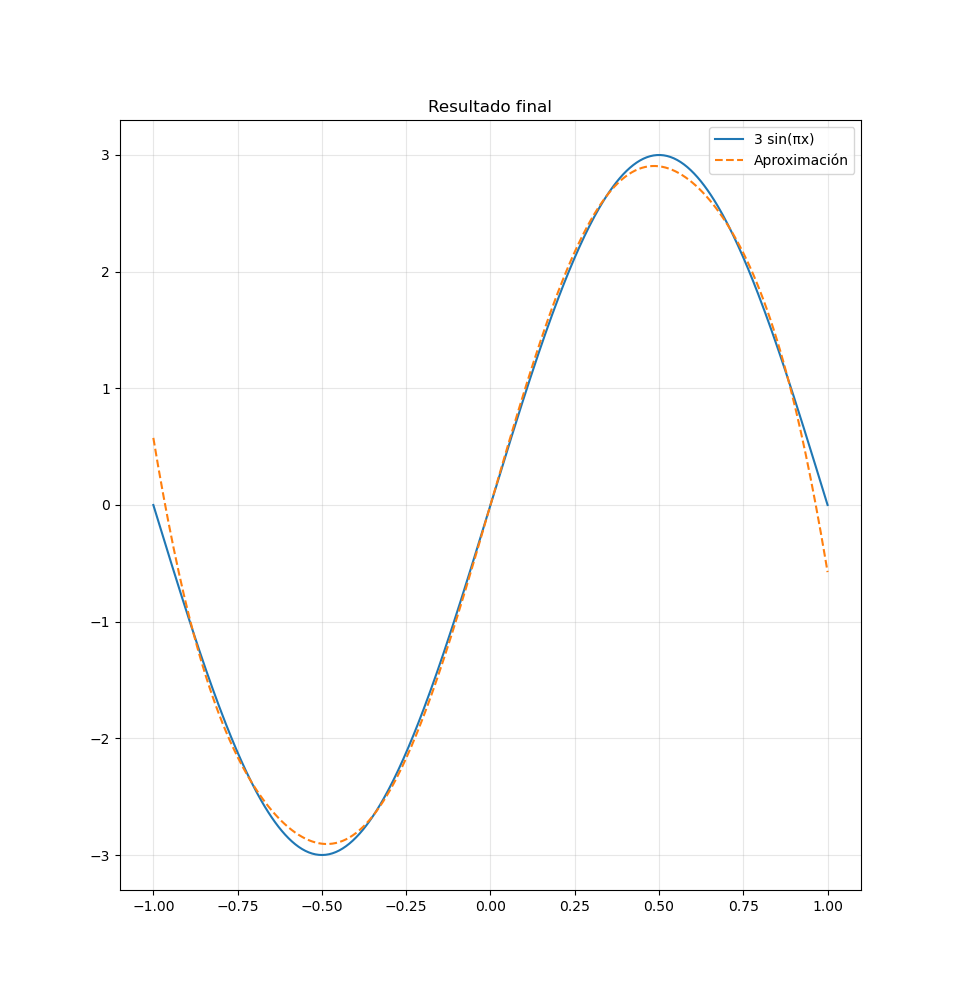
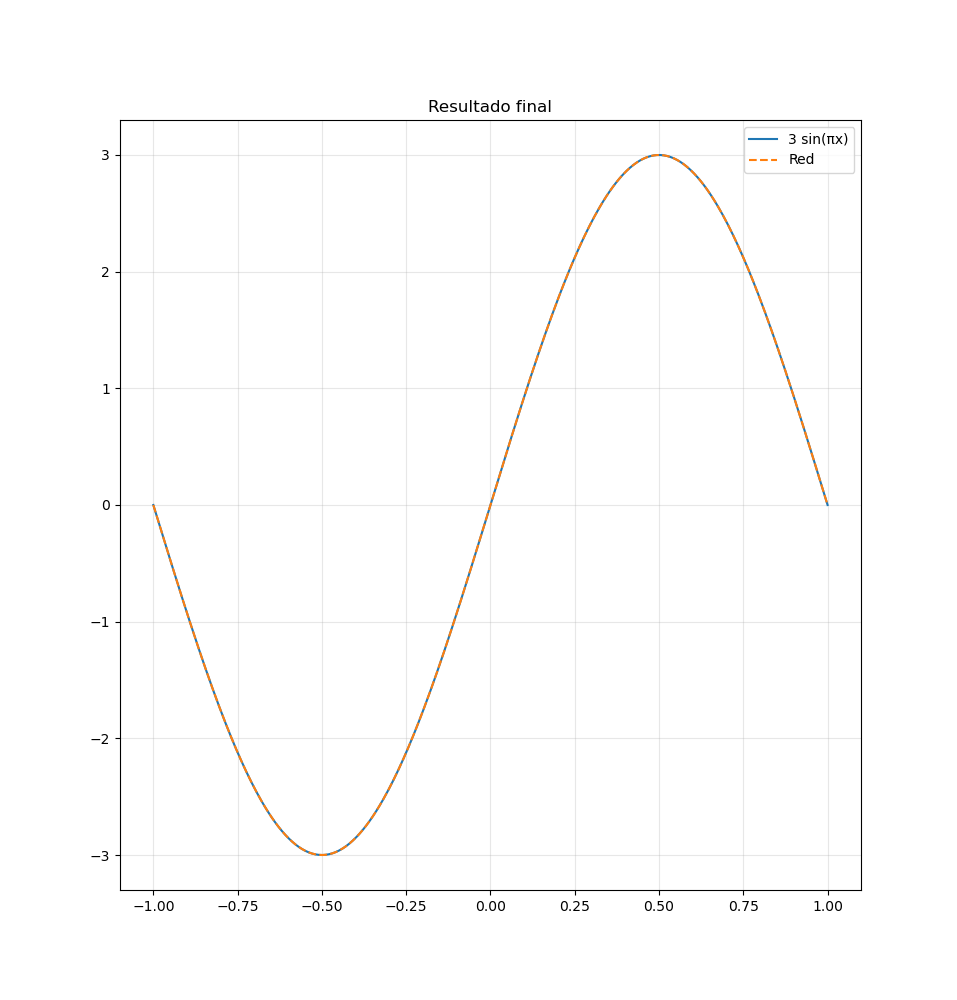
Img y codigo de f(x)=3sin(pi*x)

diff --git a/Tarea4/Tarea4_2_1.py b/Tarea4/Tarea4_2_1.py
@@ -1,0 +1,140 @@
+"""
+Este script entrena una red neuronal para reproducir funciones en el intervalo [-1,1].
+
+Funciones a utilizar:
+a) f(x) = 3sin(pi*x)
+b) f(x) = 1+2x+4x^3
+
+"""
+
+""" PROGRAMA PRINCIPAL """
+import tensorflow as tf
+from tensorflow import keras
+from tensorflow.keras.models import Sequential
+from tensorflow.keras.layers import Dense, Dropout
+from tensorflow.keras.optimizers import SGD, RMSprop, Adam
+import matplotlib.pyplot as plt
+import numpy as np
+import math
+import wandb
+from wandb.integration.keras import WandbCallback
+
+loss_tracker = keras.metrics.Mean(name='loss')
+
+class Funsol(keras.Model):
+    @property
+    def metrics(self):
+        return [loss_tracker]
+
+    def train_step(self, data):
+        batch_size = 10
+        x = tf.random.uniform((batch_size, 1), minval=-1, maxval=1)
+        eq = 3.0*tf.math.sin(tf.constant(np.pi,x.dtype)*x)
+
+        with tf.GradientTape() as tape:
+            ypred = self(x, training=True)
+            loss = tf.reduce_mean(keras.losses.mean_squared_error(eq, ypred))
+
+        grads = tape.gradient(loss, self.trainable_variables)
+        self.optimizer.apply_gradients(zip(grads, self.trainable_variables))
+        loss_tracker.update_state(loss)
+
+        return {'loss': loss_tracker.result()}
+
+class SinTransform(keras.layers.Layer):
+    def __init__(self, num_outputs):
+        super().__init__()
+        self.num_outputs = num_outputs
+        # ❗ CORREGIDO: frecuencias π·k (no π + k)
+        self.freq = np.pi * tf.range(1., num_outputs + 1)
+
+    def build(self, input_shape):
+        self.kernel = self.add_weight(
+            "kernel", shape=[self.num_outputs],
+            initializer="glorot_uniform", trainable=True
+        )
+
+    def call(self, inputs):
+        x = tf.convert_to_tensor(inputs, dtype=self.dtype)
+        x = tf.reshape(x, (-1, 1))                  # (N,1)
+        arg = x * self.freq[tf.newaxis, :]          # (N,K)
+        modes = tf.sin(arg)                         # (N,K)
+        y = modes @ self.kernel[:, tf.newaxis]      # (N,1)
+        return y
+
+class PlotCallback(keras.callbacks.Callback):
+    def __init__(self, x_plot):
+        super().__init__()
+        self.x_plot = x_plot.astype("float32").reshape(-1, 1)
+
+    def on_epoch_end(self, epoch, logs=None):
+        y_pred = self.model.predict(self.x_plot, verbose=0).squeeze()
+        x_np = self.x_plot.squeeze()
+        y_true = 3*np.sin(np.pi*x_np)
+
+        plt.figure()
+        plt.plot(x_np, y_true, label="3 sin(πx)")
+        plt.plot(x_np, y_pred, "--", label="Red")
+        plt.title(f"Epoch {epoch+1}")
+        plt.xlabel("x"); plt.ylabel("y"); plt.legend(); plt.grid(True, alpha=0.3)
+
+        wandb.log({
+            "epoch": epoch + 1,
+            "curve": wandb.Image(plt)   # sube la figura
+        })
+        plt.close()
+
+
+wandb.init(
+    project="aprox-funciones",     # <-- cambia al nombre de tu proyecto
+    name="3*sin-pi-x",
+    config={
+        "model": "Funsol+SinTransform",
+        "num_outputs": 5,
+        "optimizer": "SGD",
+        "lr": 0.2,
+        "epochs": 200,
+        "internal_batch": 10,      # el que usas dentro de train_step
+        "intervalo": "[-1,1]"
+    }
+)
+
+config = wandb.config 
+
+inputs = keras.Input(shape=(1,))
+outputs = SinTransform(5)(inputs)
+model = Funsol(inputs=inputs, outputs=outputs)
+model.compile(optimizer=keras.optimizers.SGD(learning_rate=0.2))
+
+model.summary()
+
+x_dummy = tf.linspace(-1, 1, 100)  # no se usa en tu train_step, pero sirve para contar steps
+callbacks = [
+    WandbCallback(log_weights=True, save_model=True),  # registra métricas y pesos
+    PlotCallback(x_plot=np.linspace(-1, 1, 400))       # sube la curva por época
+]
+
+history = model.fit(
+    x_dummy,
+    epochs=wandb.config.epochs,
+    verbose=1,
+    callbacks=callbacks
+)
+
+
+x_test = np.linspace(-1, 1, 400).astype("float32").reshape(-1,1)
+y_hat = model.predict(x_test, verbose=0).squeeze()
+y_true = 1.0+2.0*x_test.squeeze()+4.0*(x_test.squeeze()**3)
+
+x_test = np.linspace(-1, 1, 400).astype("float32").reshape(-1,1)
+y_hat = model.predict(x_test, verbose=0).squeeze()
+y_true = 3*np.sin(np.pi*x_test.squeeze())
+
+plt.figure()
+plt.plot(x_test.squeeze(), y_true, label="3 sin(πx)")
+plt.plot(x_test.squeeze(), y_hat, "--", label="Red")
+plt.legend(); plt.grid(True, alpha=0.3); plt.title("Resultado final")
+wandb.log({"final_curve": wandb.Image(plt)})
+plt.show()
+
+wandb.finish()

diff --git a/Tarea4/Tarea4_2_2.py b/Tarea4/Tarea4_2_2.py
@@ -1,0 +1,149 @@
+"""
+Este script entrena una red neuronal para reproducir funciones en el intervalo [-1,1].
+
+Funciones a utilizar:
+a) f(x) = 3sin(pi*x)
+b) f(x) = 1+2x+4x^3
+
+"""
+
+""" PROGRAMA PRINCIPAL """
+import tensorflow as tf
+from tensorflow import keras
+from tensorflow.keras.models import Sequential
+from tensorflow.keras.layers import Dense, Dropout
+from tensorflow.keras.optimizers import SGD, RMSprop, Adam
+import matplotlib.pyplot as plt
+import numpy as np
+import math
+import wandb
+from wandb.integration.keras import WandbCallback
+
+loss_tracker = keras.metrics.Mean(name='loss')
+
+class Funsol(keras.Model):
+    @property
+    def metrics(self):
+        return [loss_tracker]
+
+    def train_step(self, data):
+        batch_size = 10
+        x = tf.random.uniform((batch_size, 1), minval=-1, maxval=1)
+        eq = 1.0+2.0*x+4.0*(x**3)
+
+        with tf.GradientTape() as tape:
+            ypred = self(x, training=True)
+            loss = tf.reduce_mean(keras.losses.mean_squared_error(eq, ypred))
+
+        grads = tape.gradient(loss, self.trainable_variables)
+        self.optimizer.apply_gradients(zip(grads, self.trainable_variables))
+        loss_tracker.update_state(loss)
+
+        return {'loss': loss_tracker.result()}
+
+class PolyTransform(keras.layers.Layer):
+    def __init__(self, degree=3):
+        super().__init__()
+        self.degree = degree
+
+    def build(self, input_shape):
+        # pesos para [1, x, x^2, ..., x^degree]
+        self.kernel = self.add_weight(
+            name="kernel",
+            shape=(self.degree + 1,),
+            initializer="glorot_uniform",
+            trainable=True
+        )
+
+    def call(self, inputs):
+        x = tf.convert_to_tensor(inputs, dtype=self.dtype)
+        x = tf.reshape(x, (-1, 1))  # (N,1)
+
+        # construye Phi = [1, x, x^2, ..., x^degree]
+        feats = [tf.ones_like(x)]
+        for d in range(1, self.degree + 1):
+            feats.append(feats[-1] * x)
+        Phi = tf.concat(feats, axis=1)              # (N, degree+1)
+
+        y = Phi @ self.kernel[:, tf.newaxis]        # (N,1)
+        return y
+
+class PlotCallback(keras.callbacks.Callback):
+    def __init__(self, x_plot):
+        super().__init__()
+        self.x_plot = x_plot.astype("float32").reshape(-1, 1)
+
+    def on_epoch_end(self, epoch, logs=None):
+        
+        x_np = self.x_plot.squeeze()
+
+        # Función objetivo 1 + 2x + 4x^3
+        y_true = 1.0 + 2.0*x_np + 4.0*(x_np**3)
+
+        # Predicción del modelo
+        y_pred = self.model.predict(self.x_plot, verbose=0).squeeze()
+
+        # Gráfica y logging a W&B
+        plt.figure()
+        plt.plot(x_np, y_true, label="1 + 2x + 4x^3")
+        plt.plot(x_np, y_pred, "--", label="Predicción")
+        plt.title(f"Epoch {epoch+1}")
+        plt.xlabel("x"); plt.ylabel("y")
+        plt.legend(); plt.grid(True, alpha=0.3)
+
+        wandb.log({
+            "epoch": epoch + 1,
+            "curve": wandb.Image(plt)
+        })
+        plt.close()
+wandb.init(
+    project="aprox-funciones",     
+    name="1+2x+4x^3",
+    config={
+        "basis": "PolyTransform",
+        "degree": 3,
+        "num_features":4,
+        "optimizer": "SGD",
+        "lr": 0.2,
+        "epochs": 200,
+        "internal_batch": 10,      
+        "intervalo": "[-1,1]"
+    }
+)
+
+config = wandb.config 
+
+inputs = keras.Input(shape=(1,))
+outputs = PolyTransform(degree=config.degree)(inputs)
+model = Funsol(inputs=inputs, outputs=outputs)
+model.compile(optimizer=keras.optimizers.SGD(learning_rate=config.lr))
+
+model.summary()
+
+x_dummy = tf.linspace(-1, 1, 100)  # no se usa en tu train_step, pero sirve para contar steps
+callbacks = [
+    WandbCallback(log_weights=True, save_model=True),  # registra métricas y pesos
+    PlotCallback(x_plot=np.linspace(-1, 1, 400))       # sube la curva por época
+]
+
+history = model.fit(
+    x_dummy,
+    epochs=wandb.config.epochs,
+    verbose=1,
+    callbacks=callbacks
+)
+
+
+x_test = np.linspace(-1, 1, 400).astype("float32").reshape(-1,1)
+y_hat = model.predict(x_test, verbose=0).squeeze()
+y_true = 1.0+2.0*x_test.squeeze()+4.0*(x_test.squeeze()**3)
+
+plt.figure()
+plt.plot(x_test.squeeze(), y_true, label="1 + 2x + 4x^3")
+plt.plot(x_test.squeeze(), y_hat, "--", label="Predicción")
+plt.legend(); plt.grid(True, alpha=0.3); plt.title("Resultado final")
+wandb.log({"final_curve": wandb.Image(plt)})
+plt.show()
+
+
+wandb.finish()
